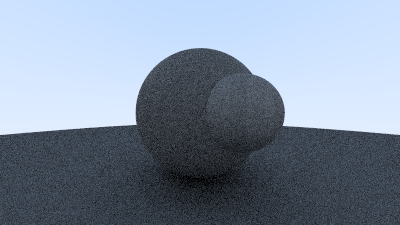
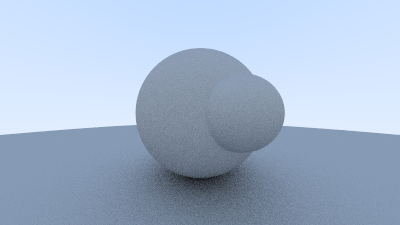
Task 7.4: Min bound (good perf)

diff --git a/src/main.rs b/src/main.rs
@@ -29,7 +29,7 @@ fn colour(ray: &Ray, scene: &Scene, depth: u32) -> Colour {
     if depth <= 0 {
         return v!(0)
     }
-    if let Some(h) = scene.hit(ray, (0.0, f64::INFINITY)) {
+    if let Some(h) = scene.hit(ray, (0.00001, f64::INFINITY)) {
         let refl = generate_reflection();
         let new_ray = Ray::new(h.p, h.n + refl);
         return 0.5 * colour(&new_ray, scene, depth - 1);
